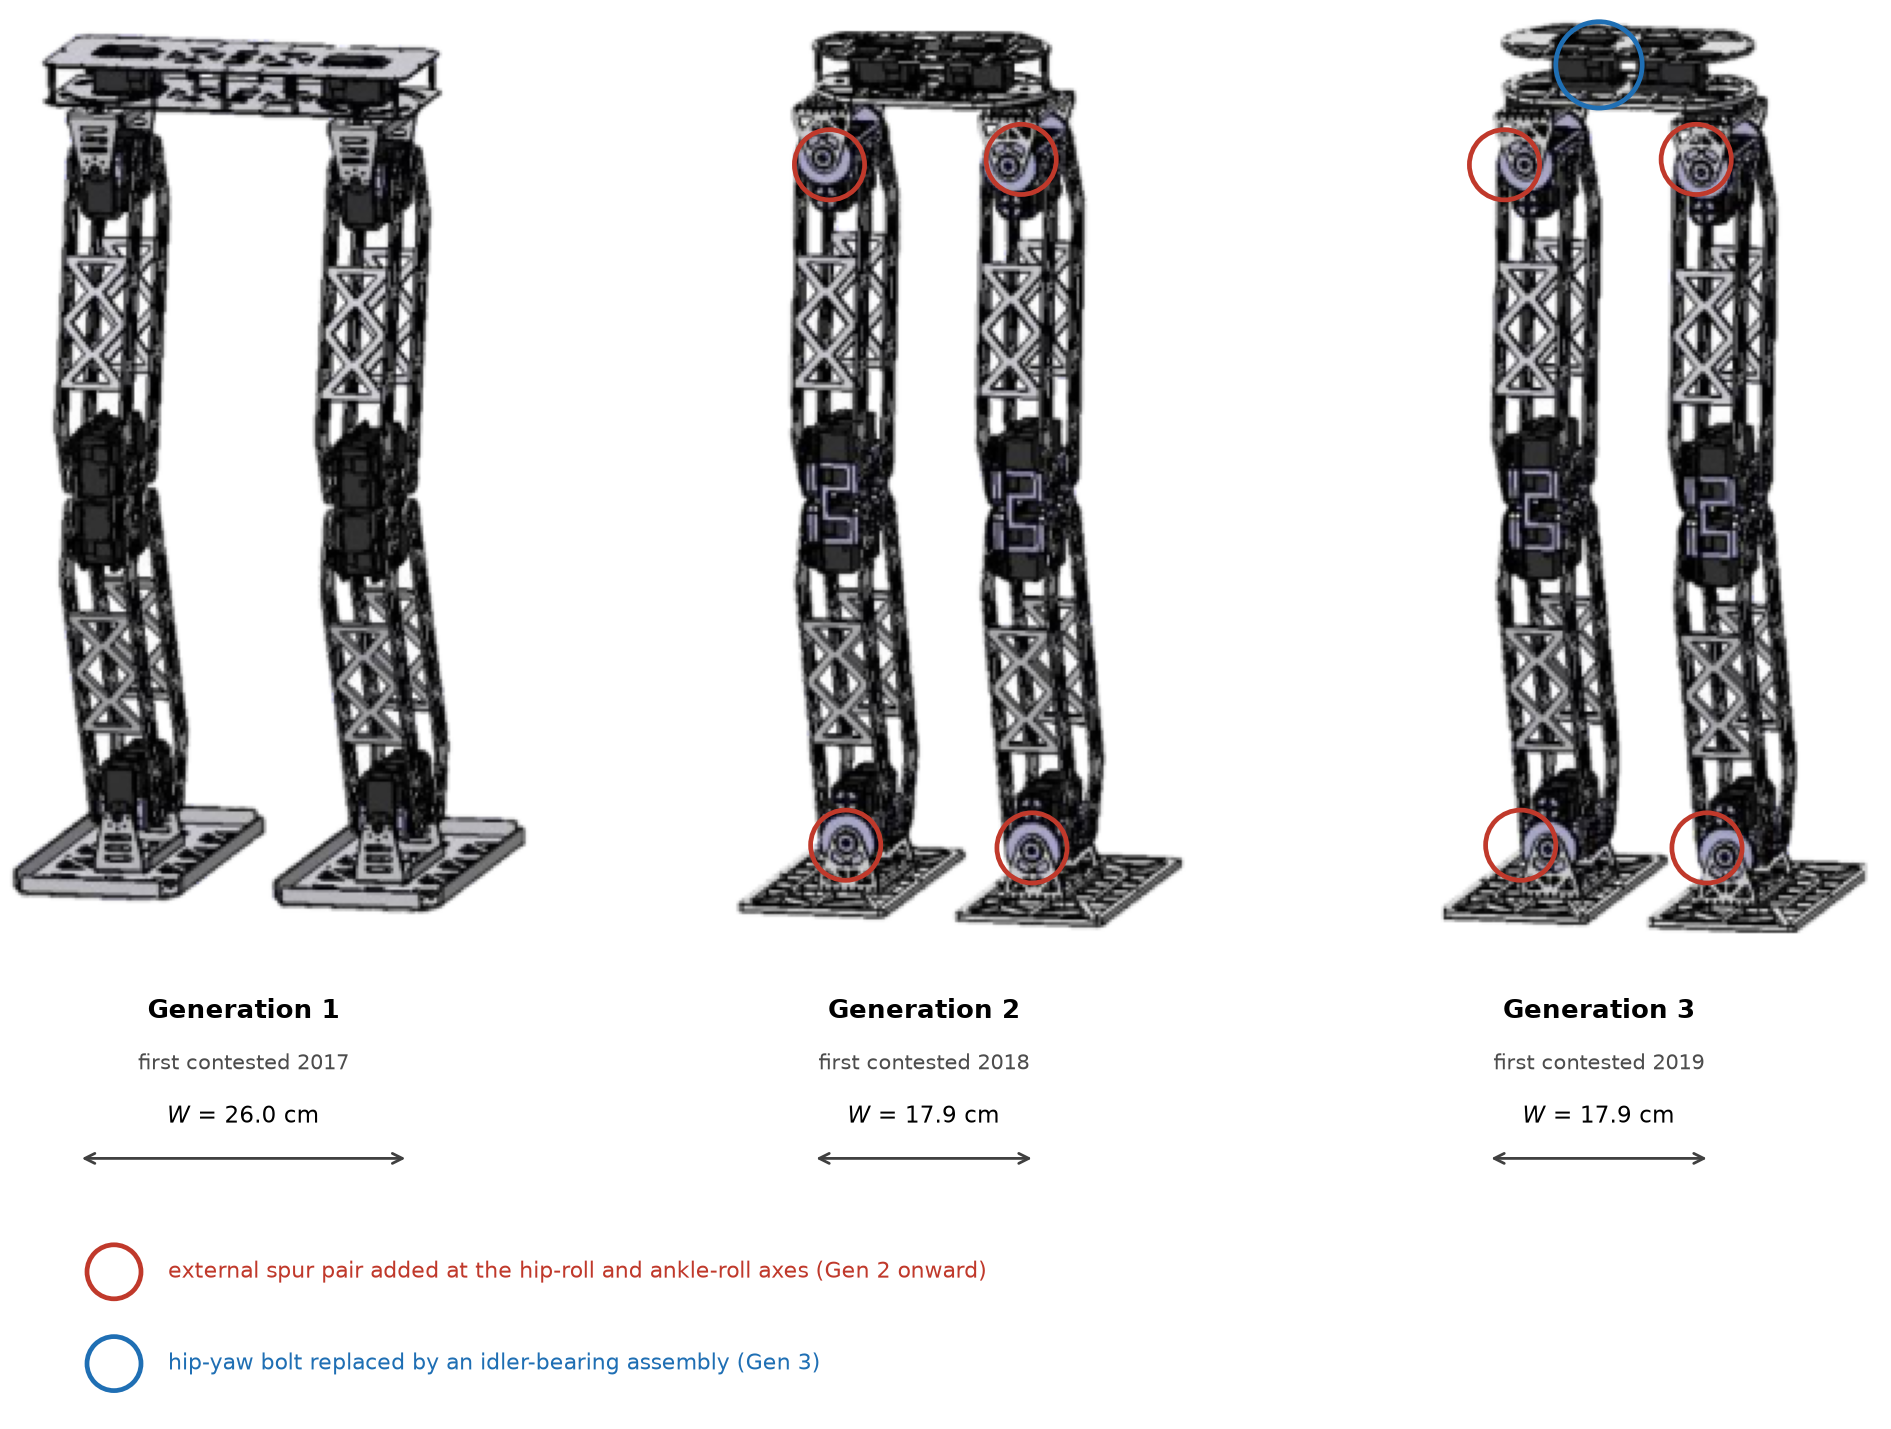
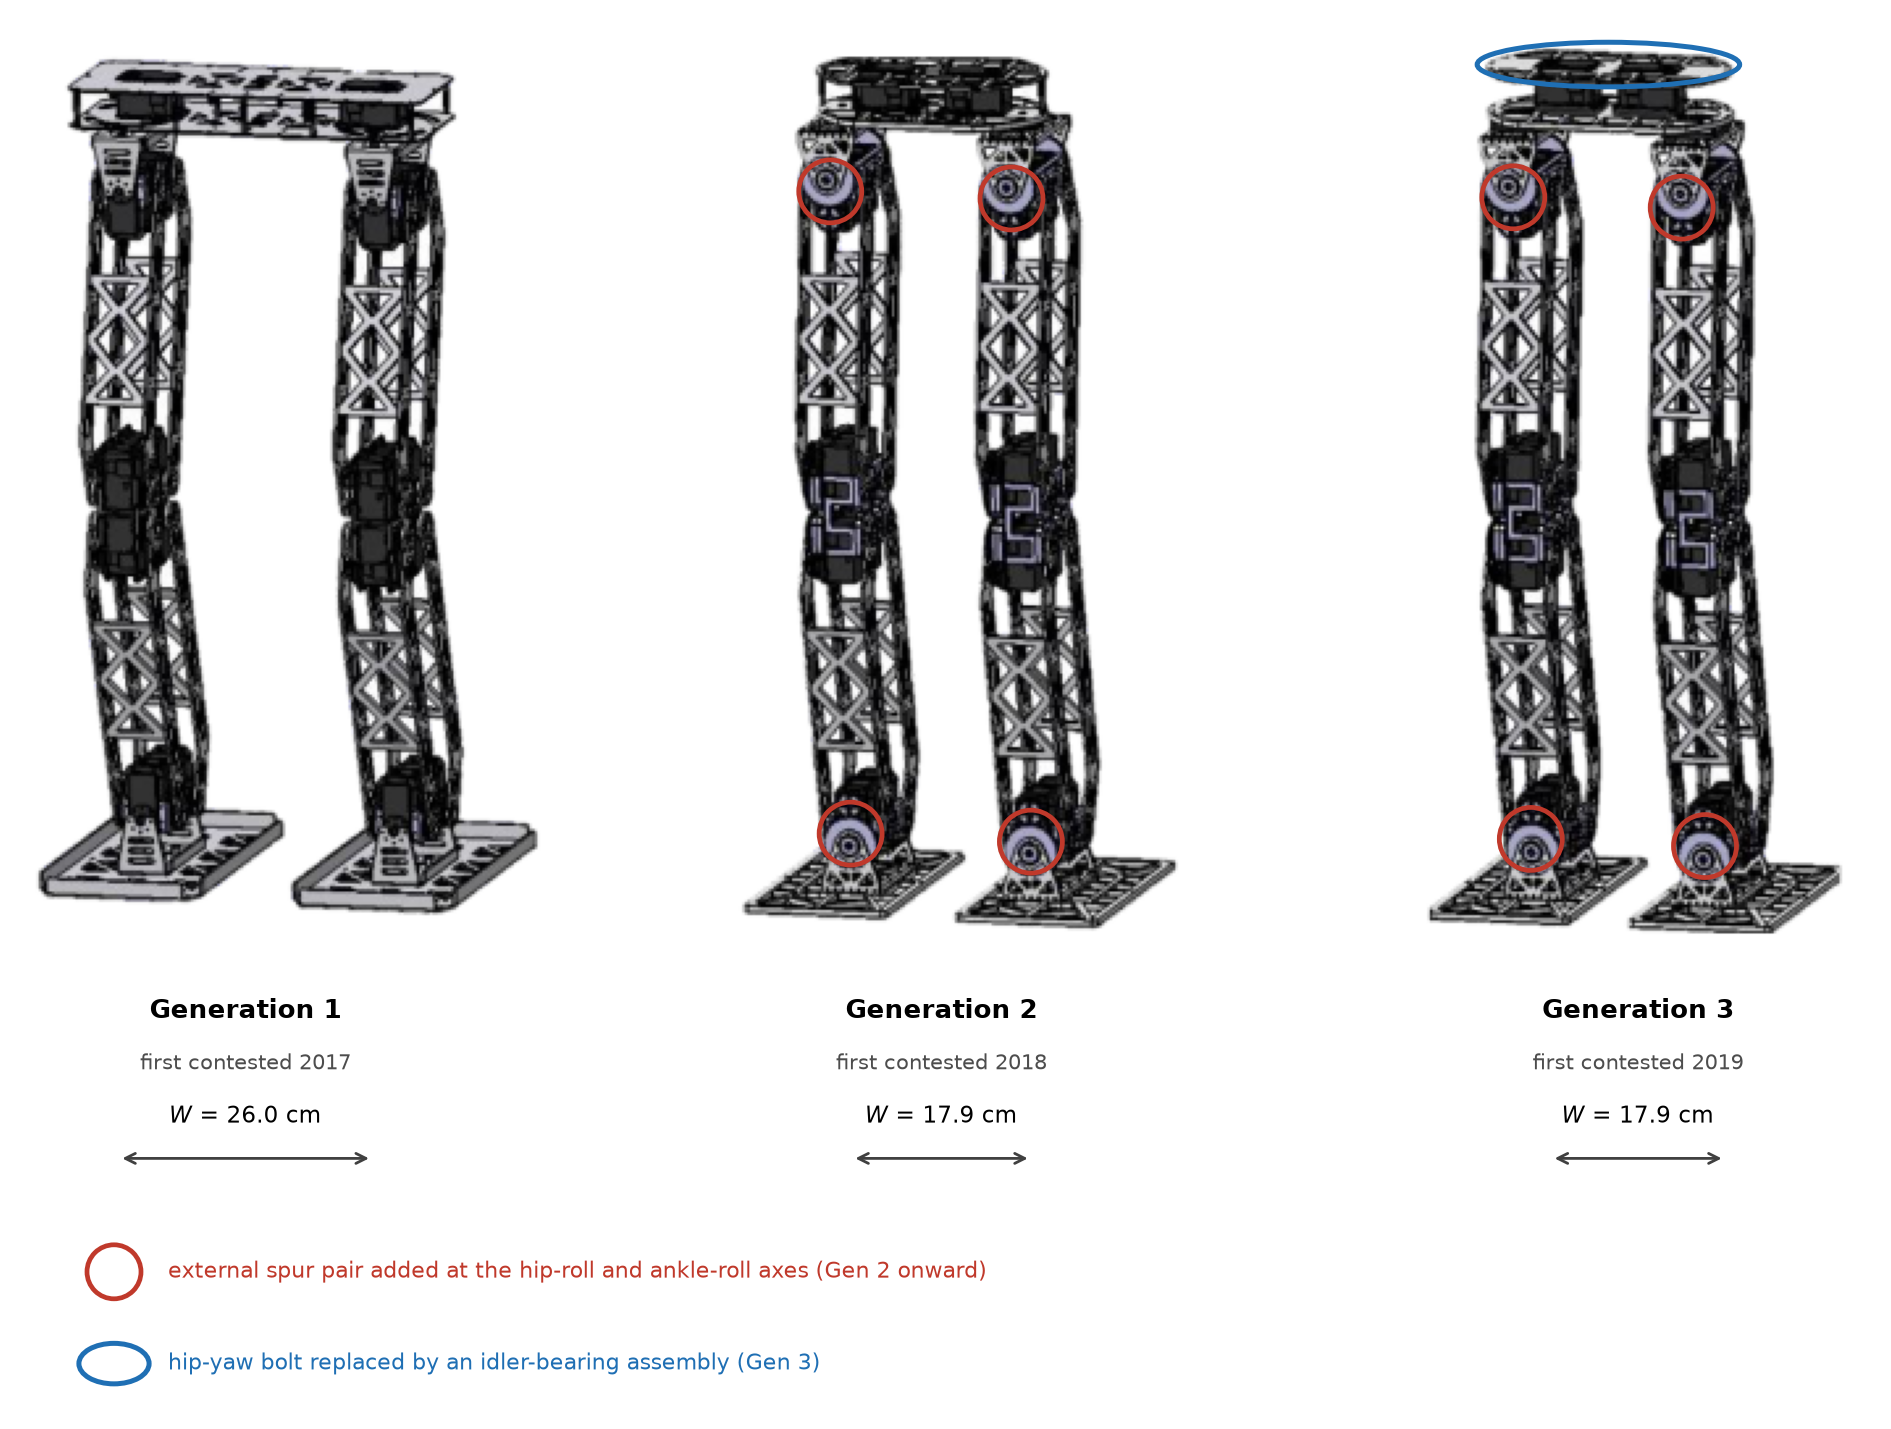
Place the Figure 2 markers by measurement instead of by eye
The spur-pair circles and the idler-bearing ellipse were positioned by hand and
several were off the parts they mark. docs/annotate_history.py now finds the
lavender spur pairs by colour, the leg centres by column density, and the idler
race by its measured extent, so the markers follow the render rather than a
guess. It finds exactly eight spur pairs, none in the first generation, which is
what Table 3 says.

diff --git a/docs/annotate_history.py b/docs/annotate_history.py
@@ -1,0 +1,134 @@
+"""Annotate the three-generation render with the changes each generation carried.
+
+    python docs/annotate_history.py
+
+Reads docs/images/fig6_history.png and writes docs/images/fig_history_annotated.png,
+which is Figure 2 of the paper.
+
+Marker positions are measured from the image, not placed by eye.  The external
+spur pairs are lavender against an otherwise black-and-grey render, so they can
+be found by colour; the leg centres come from a column-density scan.  Running
+this on a different render will move the markers with it.
+"""
+import numpy as np
+import matplotlib
+matplotlib.use('Agg')
+import matplotlib.pyplot as plt
+from matplotlib.patches import Circle, Ellipse, FancyArrowPatch
+from PIL import Image
+
+SRC = 'docs/images/fig6_history.png'
+DST = 'docs/images/fig_history_annotated.png'
+GEAR = '#c0392b'
+IDLER = '#1f6fb4'
+
+# The idler-bearing race sits above the servo plate and is the one thing the
+# third generation has that the second does not.  Measured extent x 554-647,
+# y 7-18; the servo plate below starts at y = 19.
+IDLER_RING = dict(centre=(600.5, 12.5), semi=(50.0, 8.5))
+
+GENERATIONS = [  # x window, label, first contested, stance
+    ((0, 200), 'Generation 1', 2017, '$W$ = 26.0 cm'),
+    ((260, 410), 'Generation 2', 2018, '$W$ = 17.9 cm'),
+    ((520, 670), 'Generation 3', 2019, '$W$ = 17.9 cm'),
+]
+
+
+def find_gears(rgb):
+    """Centres of the lavender spur pairs, by colour and connected component."""
+    r, g, b = rgb[:, :, 0], rgb[:, :, 1], rgb[:, :, 2]
+    mask = (b - r > 18) & (b - g > 12) & (b > 150) & (r > 110)
+    seen = np.zeros_like(mask, bool)
+    h, w = mask.shape
+    out = []
+    from collections import deque
+    for y0, x0 in zip(*np.nonzero(mask)):
+        if seen[y0, x0]:
+            continue
+        queue, pts = deque([(y0, x0)]), []
+        seen[y0, x0] = True
+        while queue:
+            y, x = queue.popleft()
+            pts.append((y, x))
+            for dy in range(-2, 3):
+                for dx in range(-2, 3):
+                    ny, nx = y + dy, x + dx
+                    if 0 <= ny < h and 0 <= nx < w and mask[ny, nx] and not seen[ny, nx]:
+                        seen[ny, nx] = True
+                        queue.append((ny, nx))
+        if len(pts) >= 40:                    # ignore stray lavender pixels
+            a = np.array(pts)
+            out.append((a[:, 1].mean(), a[:, 0].mean()))
+    return sorted(out)
+
+
+def find_legs(grey, x0, x1, y0=120, y1=260):
+    """Centre of each leg, from how much of each column is dark."""
+    col = (grey[y0:y1, x0:x1] < 160).sum(axis=0)
+    on = col > (y1 - y0) * 0.25
+    runs, start = [], None
+    for i, v in enumerate(on):
+        if v and start is None:
+            start = i
+        if not v and start is not None:
+            if i - start > 3:
+                runs.append((x0 + start, x0 + i - 1))
+            start = None
+    if start is not None and len(on) - start > 3:
+        runs.append((x0 + start, x0 + len(on) - 1))
+    return [(a + b) / 2 for a, b in runs]
+
+
+def main():
+    im = Image.open(SRC).convert('RGB')
+    rgb = np.array(im).astype(int)
+    grey = np.array(im.convert('L'))
+    width, height = im.size
+
+    gears = find_gears(rgb)
+    if len(gears) != 8:
+        raise SystemExit(f'expected 8 spur pairs, found {len(gears)} -- check the source image')
+
+    band = 175
+    fig = plt.figure(figsize=(width / 100 * 1.35, (height + band) / 100 * 1.35), dpi=200)
+    ax = fig.add_axes([0, band / (height + band), 1, height / (height + band)])
+    ax.imshow(im)
+    ax.axis('off')
+    ax.set_xlim(-6, width + 6)
+    ax.set_ylim(height, -10)          # headroom so the idler ellipse is not clipped
+
+    for cx, cy in gears:
+        ax.add_patch(Circle((cx, cy), 12, fill=False, ec=GEAR, lw=1.7))
+    ax.add_patch(Ellipse(IDLER_RING['centre'],
+                         2 * IDLER_RING['semi'][0], 2 * IDLER_RING['semi'][1],
+                         fill=False, ec=IDLER, lw=1.8))
+
+    lab = fig.add_axes([0, 0, 1, band / (height + band)])
+    lab.axis('off')
+    lab.set_xlim(0, width)
+    lab.set_ylim(0, band)
+    for (x0, x1), name, year, stance in GENERATIONS:
+        legs = find_legs(grey, x0, x1)
+        centre = sum(legs) / len(legs)
+        lab.text(centre, 150, name, ha='center', fontsize=9.4, weight='bold')
+        lab.text(centre, 131, f'first contested {year}', ha='center', fontsize=7.6, color='0.3')
+        lab.text(centre, 111, stance, ha='center', fontsize=8.4)
+        lab.add_patch(FancyArrowPatch((legs[0], 98), (legs[-1], 98), arrowstyle='<->',
+                                      mutation_scale=9, lw=1.0, color='0.25'))
+
+    lab.add_patch(Circle((40, 56), 10, fill=False, ec=GEAR, lw=1.7))
+    lab.text(60, 56, 'external spur pair added at the hip-roll and ankle-roll axes (Gen 2 onward)',
+             fontsize=8.0, color=GEAR, va='center')
+    lab.add_patch(Ellipse((40, 22), 26, 15, fill=False, ec=IDLER, lw=1.8))
+    lab.text(60, 22, 'hip-yaw bolt replaced by an idler-bearing assembly (Gen 3)',
+             fontsize=8.0, color=IDLER, va='center')
+
+    fig.savefig(DST, dpi=200, facecolor='white', bbox_inches='tight', pad_inches=0.03)
+    plt.close(fig)
+    print(f'{len(gears)} spur pairs marked at ' +
+          ', '.join(f'({x:.0f},{y:.0f})' for x, y in gears))
+    print(f'wrote {DST}')
+
+
+if __name__ == '__main__':
+    main()
